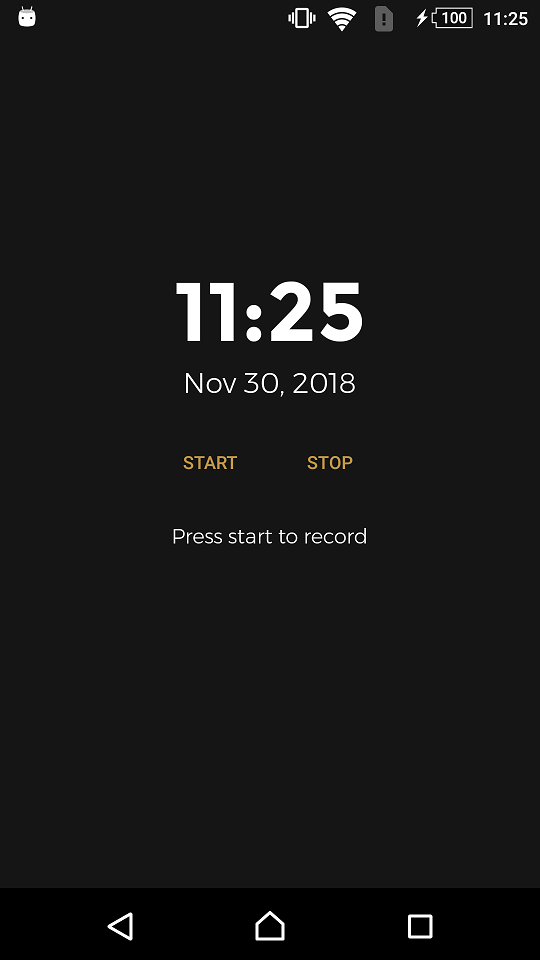
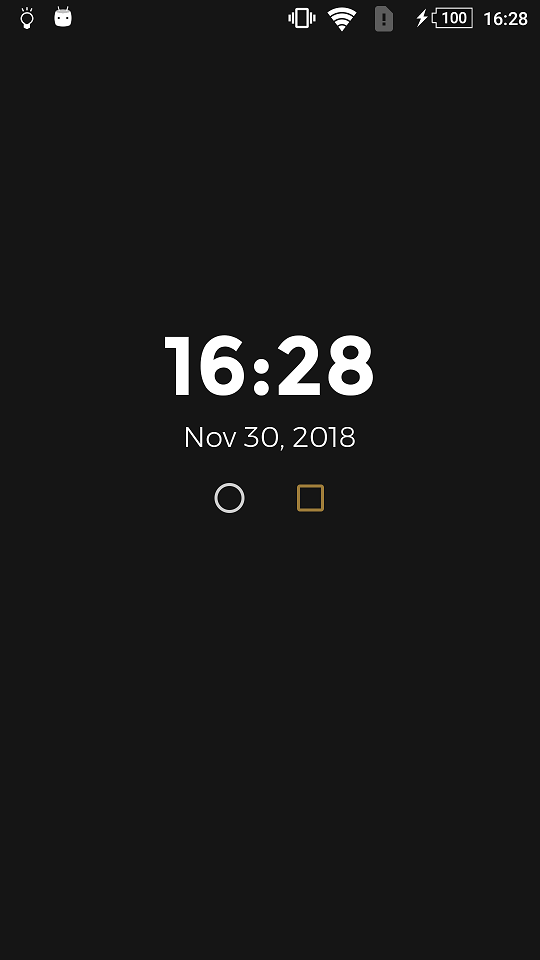
immersive sticky, version, quality, design, art

diff --git a/app/src/main/java/com/siziksu/recorder/ui/common/manager/Recorder.java b/app/src/main/java/com/siziksu/recorder/ui/common/manager/Recorder.java
@@ -1,15 +1,16 @@
 package com.siziksu.recorder.ui.common.manager;
 
 import android.media.MediaRecorder;
-import android.view.View;
 
 import com.siziksu.recorder.R;
-import com.siziksu.recorder.common.function.Consumer;
+import com.siziksu.recorder.common.function.Action;
 import com.siziksu.recorder.common.utils.Print;
 
 import java.io.IOException;
 
 import javax.inject.Inject;
+
+import io.reactivex.annotations.NonNull;
 
 public class Recorder {
 
@@ -20,13 +21,13 @@ public class Recorder {
 
     private MediaRecorder recorder;
     private boolean recording;
-    private Consumer<Integer> listener;
+    private Action maxDurationListener;
 
     @Inject
     public Recorder() {}
 
-    public void setListener(Consumer<Integer> listener) {
-        this.listener = listener;
+    public void setListener(@NonNull Action maxDurationListener) {
+        this.maxDurationListener = maxDurationListener;
     }
 
     public void onDestroy() {
@@ -35,8 +36,8 @@ public class Recorder {
         }
     }
 
-    public void onClick(View view) {
-        switch (view.getId()) {
+    public void onClick(int view) {
+        switch (view) {
             case R.id.start:
                 if (recording) { return; }
                 startRecording();
@@ -54,13 +55,21 @@ public class Recorder {
     }
 
     private void startRecording() {
-        listener.accept(R.string.recording);
         Print.info("Recording");
         recorder = new MediaRecorder();
+        recorder.setAudioChannels(1);
+        recorder.setAudioSamplingRate(16000);
         recorder.setAudioSource(MediaRecorder.AudioSource.MIC);
         recorder.setOutputFormat(MediaRecorder.OutputFormat.AAC_ADTS);
-        recorder.setAudioEncoder(MediaRecorder.AudioEncoder.AAC);
         recorder.setOutputFile(fileManager.getOutputAudioFile());
+        recorder.setAudioEncodingBitRate(16000);
+        recorder.setAudioEncoder(MediaRecorder.AudioEncoder.AAC);
+        recorder.setMaxDuration(20 * 60 * 1000); // 20 minutes
+        recorder.setOnInfoListener((mediaRecorder, what, extra) -> {
+            if (what == MediaRecorder.MEDIA_RECORDER_INFO_MAX_DURATION_REACHED) {
+                maxDurationListener.execute();
+            }
+        });
         try {
             recorder.prepare();
         } catch (IOException e) {
@@ -70,7 +79,6 @@ public class Recorder {
     }
 
     private void stopRecording() {
-        listener.accept(R.string.press_start_to_record);
         Print.info("Stopping");
         close();
     }

diff --git a/app/src/main/java/com/siziksu/recorder/ui/view/MainActivity.java b/app/src/main/java/com/siziksu/recorder/ui/view/MainActivity.java
@@ -5,7 +5,6 @@ import android.os.Bundle;
 import android.support.annotation.NonNull;
 import android.support.v7.app.AppCompatActivity;
 import android.view.View;
-import android.widget.TextView;
 
 import com.siziksu.recorder.App;
 import com.siziksu.recorder.R;
@@ -14,15 +13,11 @@ import com.siziksu.recorder.ui.common.manager.Recorder;
 
 import javax.inject.Inject;
 
-import butterknife.BindView;
 import butterknife.ButterKnife;
 import butterknife.OnClick;
 import uk.co.chrisjenx.calligraphy.CalligraphyContextWrapper;
 
 public class MainActivity extends AppCompatActivity {
-
-    @BindView(R.id.info)
-    TextView info;
 
     @Inject
     Recorder recorder;
@@ -30,8 +25,8 @@ public class MainActivity extends AppCompatActivity {
     PermissionsManager permissionsManager;
 
     @Override
-    public void onCreate(Bundle icicle) {
-        super.onCreate(icicle);
+    public void onCreate(Bundle savedInstanceState) {
+        super.onCreate(savedInstanceState);
         getWindow().setStatusBarColor(getColor(R.color.darkerGrey));
         setContentView(R.layout.activity_main);
         ButterKnife.bind(this);
@@ -52,6 +47,12 @@ public class MainActivity extends AppCompatActivity {
     }
 
     @Override
+    protected void onResume() {
+        super.onResume();
+        setInImmersiveMode();
+    }
+
+    @Override
     protected void onDestroy() {
         super.onDestroy();
         recorder.onDestroy();
@@ -59,10 +60,18 @@ public class MainActivity extends AppCompatActivity {
 
     @OnClick({R.id.start, R.id.stop})
     public void onClick(View view) {
-        recorder.onClick(view);
+        recorder.onClick(view.getId());
+    }
+
+    private void setInImmersiveMode() {
+        int uiOptions = View.SYSTEM_UI_FLAG_HIDE_NAVIGATION | View.SYSTEM_UI_FLAG_IMMERSIVE_STICKY;
+        getWindow().getDecorView().setSystemUiVisibility(uiOptions);
     }
 
     private void initialize() {
-        recorder.setListener(resource -> info.setText(getString(resource)));
+        recorder.setListener(() -> {
+            recorder.onClick(R.id.stop);
+            recorder.onClick(R.id.start);
+        });
     }
 }

diff --git a/app/src/main/java/com/siziksu/recorder/App.java b/app/src/main/java/com/siziksu/recorder/App.java
@@ -4,7 +4,6 @@ import android.app.Application;
 
 import com.siziksu.recorder.dagger.component.ApplicationComponent;
 import com.siziksu.recorder.dagger.component.DaggerApplicationComponent;
-import com.siziksu.recorder.dagger.module.ApplicationModule;
 
 public class App extends Application {
 
@@ -29,7 +28,6 @@ public class App extends Application {
 
     private void initDagger() {
         applicationComponent = DaggerApplicationComponent.builder()
-                .applicationModule(new ApplicationModule(this))
                 .build();
         applicationComponent.inject(this);
     }

diff --git a/app/src/main/java/com/siziksu/recorder/common/function/Action.java b/app/src/main/java/com/siziksu/recorder/common/function/Action.java
@@ -1,0 +1,7 @@
+package com.siziksu.recorder.common.function;
+
+@FunctionalInterface
+public interface Action {
+
+    void execute();
+}
